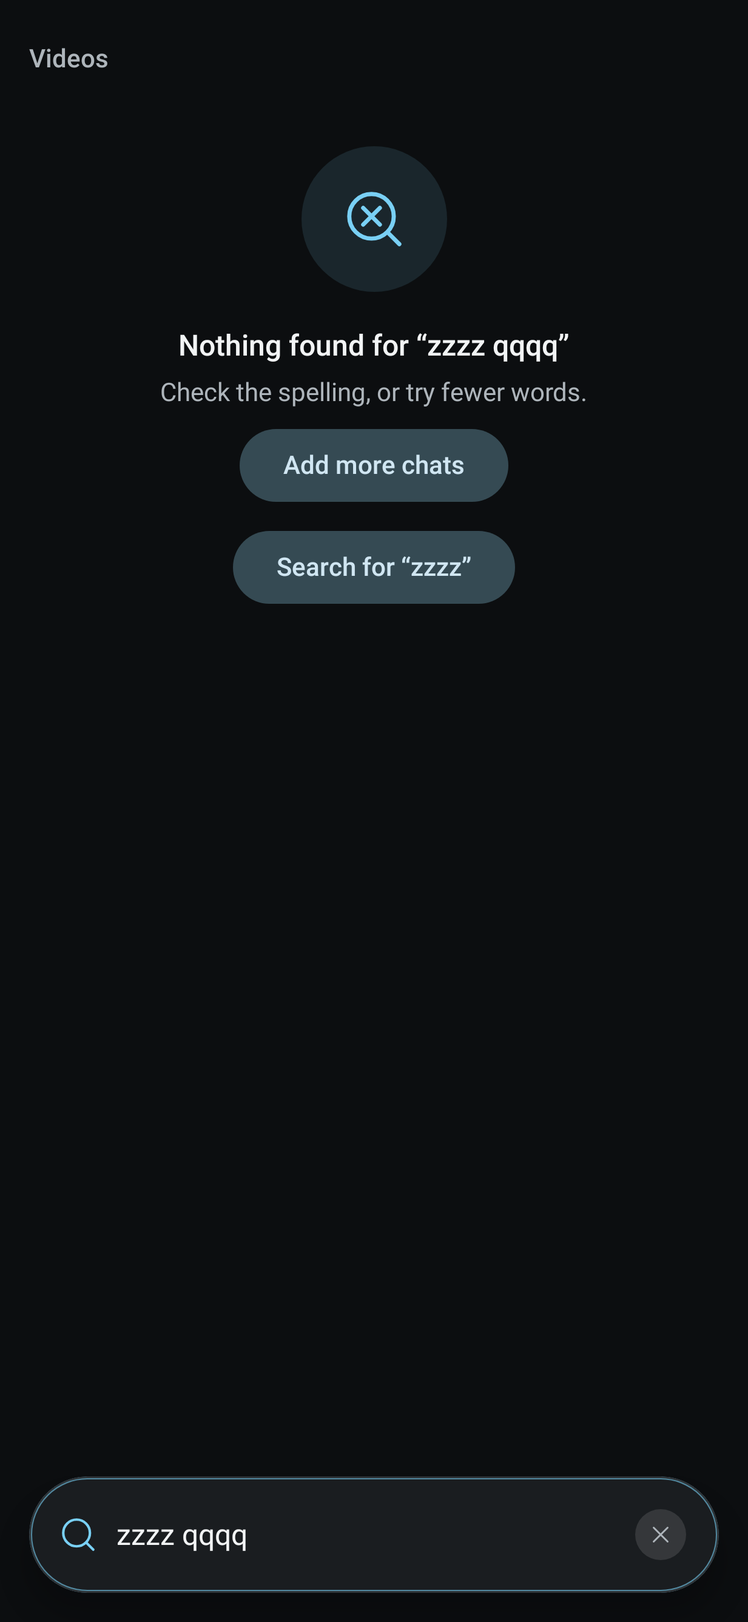
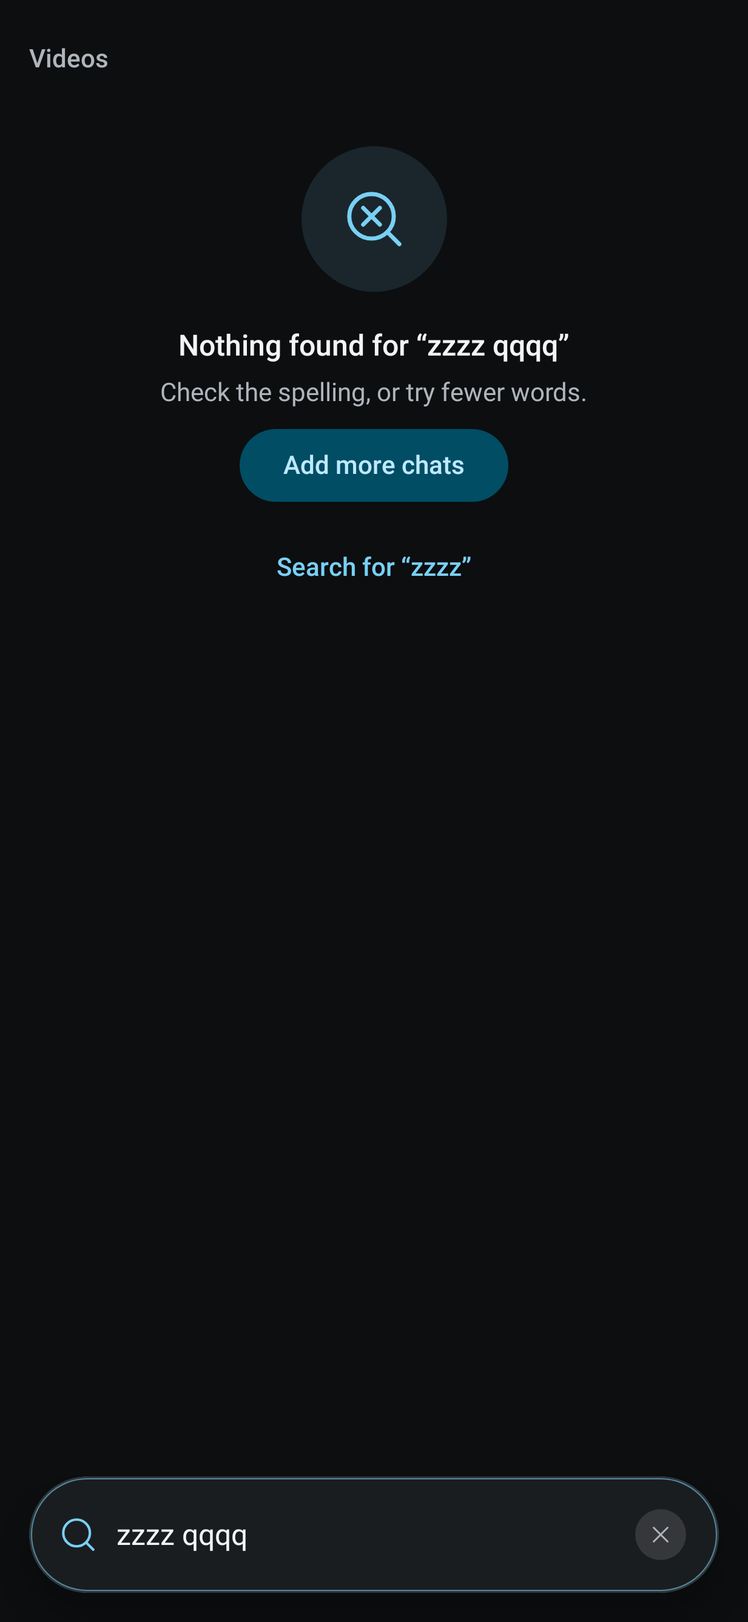
Plans and design shots: progress notes for the stutter, ANR and issue 31/33/34 work, refreshed review screenshots

Changed region(s): [[0.3082, 0.2484, 0.7088, 0.3726]]

diff --git a/private/UX-INTERACTION-PLAN.md b/private/UX-INTERACTION-PLAN.md
@@ -599,6 +599,13 @@ not built on purpose (gate rule 2); TV focus return after "Fix match" relies on 
   left for the user: (a) anime-skip.com client id is still the TODO in SkipSources: the privacy page and FAQ already name anime-skip.com, so register the id (and read their terms) before the release that ships this page, or drop it from both; (b) the FAQ answer "Can I stop on one device..." (ld.yes_once_you_turn_9ec7) still says "Resume on your other devices": changing it renames the ld key in all 21 catalogs, so it waits for langsync (only the user runs it); (c) 8 android.* and 10 ld.* new keys plus 2 reworded android keys (formats_body, storage_body, resume_body) need translating; (d) store text claims "Home works offline", "Downloads tab", sync, badges: re-check each against the build that ships; Microsoft Store limits are from memory; (e) Play and Amazon may want the Buy Me a Coffee / UPI line without a link (store-text.md); (f) no real device pass of the guides' menu names (Report stutter, Try the other decoder, Playback test, While streaming).
 
 ## Decisions made by Claude
+- W3 (Raju pass 2 leftovers, 2026-11-17):
+  - 1.1: the loader's one line "Your Telegram videos, in one place." (`state.first_open_promise`) sits in the loader's `below` room, so the spinner never moves; shown only while `SettingsStore.wasSignedIn()` is false (first open, or after a Sign out) and until the stalled help takes the room. This is a small, deliberate exception to the 2026-10-23 "just one loader, no words" rule: the words are the review's recommendation, below the spinner, and gone on every later launch.
+  - 2.4: the phone and desktop sign in footers' three dot icon is now the visible link "Can't connect? Get help" (`connect.get_help`, shared `SignInHelpLink`, 48 dp) that opens the same two lines (Proxy settings, Send logs). The footer stays hidden while the keyboard is up (the field's room); the connect banner and the slow Send code link already cover that case. TV keeps its two buttons.
+  - 4.7: the first of the empty search's ways (other chats, else Add chats) is the one primary button, the rest are text links (`EmptySearchWays`, phone) or plain pills (TV: tinted first, plain others). Wording kept ("Search my other chats" is accurate: the added chats were searched already; "all my chats" would not be); order kept so the remote walks the same way. Desktop palette keeps its list rows (every row there is a keyboard line, nothing to rank).
+  - 7.5: phone Downloads "Open folder" (empty page link and a link on the "On this phone" heading) only when downloads are in a folder the viewer picked and the grant is still held: it opens that folder with a VIEW intent on its document URI. The default folder is in the app's own storage, which no file manager may browse, so no link is drawn there (a button that cannot work is worse than none); Keep > Save to folder and gallery stay the way out. A failed open says so (`downloads.open_folder_failed`).
+  - 11.1: Player gestures is a heading of Playback (phone), Home's rows and the library are one page "Home and library" (phone, TV, desktop; deep links to Home land on it); the desktop's Mouse is a heading of Playback too (same job, same reason). The review's last line, "Text size as its own first row in Appearance", is not done: the row is "Interface size" and scales text, buttons and panels together, a "Text size" name would be wrong, and 11.2's search words ("bigger", "font", "text size") already find it. Web keeps its own Settings pages (docs/settings-audit.md).
+  - 11.3: desktop Playback ends with an "Advanced" heading holding "Force software decoding"; the Mouse rows sit before it. Old catalog keys (page_gestures, page_mouse, page_home, library, ...) stay in en.json because the locale catalogs still carry them (CatalogTest forbids orphans in a locale); new keys: connect.get_help, downloads.open_folder_failed, settings.group_playback_summary_desktop_mouse, settings.group_playback_summary_touch, settings.page_home_library(_summary), state.first_open_promise (other locales not synced, by the rule).
 - T1: one shared `rememberVisitQuery` (not a patch per screen) so any later search box gets rule 3 by calling it; the phone keeps the query while a page is open (`keep = page != null`), the desktop while a category is open. No design note: small fix.
 - T4: the TV gets the setup's two-answer switch (`TabSwitch`, extracted and shared) because Material segments cannot be reached with a D-pad; phone keeps Material segments, desktop keeps `Segments`. Words: setup choice titles now read Keep video / Save space; device card says "While streaming: Save space". The Free up space offer's button says Switch (was Turn on). No design note: a rename plus one row.
 - Three workers, not more: the files are split by surface and `MainActivity.kt` is shared, so only
@@ -883,3 +890,52 @@ Cast: no way to reach "Add a TV by its address" when discovery never finds it (a
 - Decisions: ci path filter is wider than iosMain (app/src/main/java, core/src, ui/src, res) because Android sources are compiled for iOS; repo guard uses owner/name, not the bare name; versions keyed by version AND build (an iOS-only build 2 is its own entry, old ones stay); non-dry runs only from an apple-v tag; PR branch is `altstore-source-<tag>-<run id>` (no force pushes); deep links are plain text in release notes because GitHub drops non-http links; xcodegen diff is a warning (project hand-edited); jsonschema only in CI/tests (skipped when missing).
 - Next (needs the user): set vars APPLE_MAC_CI/APPLE_SOURCE_PUSH if wanted, enable "Allow GitHub Actions to create pull requests", run a dry run from a branch on macos-26, add iPhone/iPad PNGs to iosApp/screenshots/{iphone,ipad} and run `altstore_source.py screenshots --repo dracu-lah/TMPlayer`, try the source in AltStore and SideStore.
 - Gotchas: a worktree needs `local.properties` copied (ignored). Heredoc python after `cd &&` is sometimes refused by the sandbox: write scripts to the scratchpad and run them.
+
+## RUN 3 (2026-11-17, hands-free, user picked: follow-up fixes, Raju pass 2 leftovers, web catch-up, worktree tidy)
+Tidy done by main session: merged and patch-equivalent worktrees/branches removed. Kept (unique commits, ask before delete):
+abba45b (web subtitles in this chat), ac52739 (web named lists), add88c6 (web search inside added chats), ab9c228 (TV search
+Try again, Resume, back focus), aee4cd3 (next-up loop, dimmed tracks, speed figure); 7 locked agent worktrees (pid 1387712 alive) and 3 dirty ones.
+### W1 Remote field trap + scrims (model: sonnet, depends: none)
+files: shared ui TV text fields (Proxy, new list name, country picker; NOT the Add a TV dialog file), `Modifier.dpadLeavesField` use, CastRemote, MetaExtrasUi, TouchNav, PlayerOverlay scrims (one shared scrimDismiss/swallowClicks in ui), tests.
+Done when: D-pad leaves each TV field with a performKeyInput test; scrims have no Tab stop and share one helper; MiniPlayerBar ring.
+### W2 Cast address line, cancel confirm, Clear all undo (model: sonnet, depends: none)
+files: SettingsScreen/desktop Settings (one line "Add a TV by its address" that opens the existing picker entry; do not edit that dialog file), Downloads cancel confirm (phone, TV, desktop), desktop recents Clear all Undo toast, en.json, tests.
+### W4 Web catch-up (model: sonnet, depends: none)
+files: `webapp/**` only. Sign in country chip + errors.phone_check/code_check/login.resend_none mapped in strings.config; then anime episode guide (tmdb/anime-guide.ts per T4 spec) and skip times. e2e chromium for what changed.
+**Progress / handoff W4 (worker, 2026-11-17, branch worktree-agent-a02512c26682c71cb on main cf49a51, 5 local commits, nothing pushed):**
+- `5cca127` sign in: country row shows the `+91` chip (`phone.dialChip`), a code with no other route shows `login.resend_none` as a muted line (`phone.canResend`). `errors.phone_check` / `errors.code_check` were already mapped in `errors.ts` (whole `errors` and `login` sections are in PAGE_STRINGS, so strings.config needed nothing). Tests: `src/signinWords.test.ts`, e2e `pages.spec` chip (chromium + phone-390).
+- `6c5b396` + `d148dd4` + `666dbc9` anime guide. Worker: `GET /tmdb/anime?id=<anilist>` (handler.ts `anime()`, readers `tmdb/anime-sources.ts`, rules `src/animeGuide.ts` = AnimeEpisodes port: merge, absoluteOf, locate, flat, overlay, placeholder, wire read). Sources in the apps' order (TMDB group, TMDB seasons in 2 appended calls, Kitsu by MAL id, Jikan, AniList streaming); wrong match dropped by `plausible`. A request makes at most 36 calls / 15 s (Pages' 50 subrequest cap); each source's progress is kept at the edge (`/tmdb/anime-part`), the answer says `complete:false` and is not kept until whole, then 1 day. Page: `followAnimeGuide` (posters.ts) asks again up to 6 times, 6 s apart; Detail overlays seasonList/next (one season counted straight through, as core) and the episode's own name and words. Tests: `animeRules` 16, `anime-sources` 7 (garbage), `animeRoute` 15 (order, call counts, budget resume, throttle, wrong match, cache), e2e `detail.spec` anime on chromium, phone-390, desktop-1280.
+- `3c56787` skip times: `GET /tmdb/skip?id=&e=&len=` (AniSkip by MAL id: AniList's idMal else the id map arm.haglund.dev; 404 = empty and kept a day; throttled/down = 503, not kept), `tmdb/skiptimes.ts`; player `src/player/skipOnline.ts` = core SkipMerge for chapters + online (chapters win; overlap or same group from the other source dropped; fit to length). Chrome asks only for a show whose poster answer is `source:"anilist"`, gated by the same "posters" switch. Tests: skiptimes 8, skipOnline 6, e2e extras (recap pill, none for a TMDB title).
+- Decisions: (a) response is raw `entries` + `layout` (not the spec's `seasons[]`) so the page runs the same `absoluteOf`; (b) guide rules live in `src/animeGuide.ts`, not `tmdb/`: the dev/e2e server answers every `/tmdb/*` URL as the worker, so the page cannot import files from there (`src/plain.ts` shared the same way); (c) a picture counts only if it is a TMDB still (`/abc.jpg`): the worker serves no Kitsu/AniList host, so those pictures are never taken (differs from core's IMAGE_HOSTS); (d) no `hint` param (the apps pass the file's name as a TMDB name), the AniList names are tried; (e) skip: the file's own episode number is sent as core does, not the absolute one; (f) anime-skip.com NOT ported (needs a client id the user lacks). LOG: add later with the client id as a Pages secret; (g) overview capped 1500 on the wire; (h) no core-written parity fixtures (task was webapp-only): the rule tests copy the cases of core's AnimeEpisodesTest/SkipPolicyTest by hand; a `WebAnimeParityTest` like WebSyncParityTest would close that.
+- Left: the browser's Cache API keeps nothing of the guide (the edge keeps it); TheIntroDB/IntroDB.app skip times for TMDB titles still not on web; WebKit projects not run.
+- Checks: `tsc --noEmit`, test:tmdb 113, test:player 144, test:stream 31, test:ui 57, test:sync 39, test:tg 4, src/*.test 12, src/screens 36 all green; `vite build` (dummy TG ids) ok; e2e pages, posters, detail, extras, app, a11y on chromium + phone-390 + desktop-1280: 172 passed, 4 skipped, 0 failed (own server on E2E_PORT 8441).
+### W3 Raju pass 2 leftovers 1.1, 2.4, 4.7, 7.5, 11.1, 11.3 (model: sonnet, depends: W2)
+files: onboarding/sign in screens, detail actions, SettingsMap regrouping; notes in private/ux-review/raju-pass-2.md. Design calls: take the note's recommendation, log it.
+
+### Worker handoff: W1 remote field trap + scrims (branch worktree-agent-a3045903915a804a9, commits bfcf775, 80b2532, local, not pushed)
+- Done: `dpadLeavesField` moved to ui (`ui/.../components/FieldDpad.kt`) with `dpadLeavesFieldOnTv()` (TV only: phone/desktop arrows stay with the cursor); on the proxy link box (`ProxyLinkField`, extracted), the by hand proxy fields (`ManualProxy`), the new list name (`ListNameField`, extracted) and the country search. Test: `FieldDpadTvTest` (Robolectric TV, performKeyInput + assertIsFocused; 4 fail without the modifier, phone keeps the cursor). `scrimDismiss` and `swallowClicks` moved from desktop `OverlayFocus.kt` to `ui/.../components/ScrimDismiss.kt`; used by MetaExtrasUi (enlarged photo dim), TouchNav (scrim + card), ChoicePopover, desktop PlayerOverlay (card and the loader dim). MiniPlayerBar title and buttons got `focusRing`. Test: desktop `ScrimAndMiniBarTest`.
+- CastRemote was already fixed in R8 (pointerInput, no clickable), nothing to change. Add a TV dialog file untouched.
+- Checks: `:app:compileDebugKotlin :desktop:compileKotlin`, FieldDpadTvTest, ListsTvFocusTest, auth.* app tests, desktop ScrimAndMiniBarTest + ControlReviewR1/R4, core CatalogTest all green. Not run: iOS klib compile, full test suite.
+- Left: AddChatsScreen search field (ui shared) not checked for the same trap; MiniPlayerBar ring is untested for pixels (focus walk only).
+
+### Worker handoff: W2 cast address line, cancel confirm, Clear all undo (branch worktree-agent-ab268f9a37fce5a31, commits 146bac5, 25f144b, fa262a4, 02e413d, local, not pushed)
+- (1) `146bac5` + `25f144b`: Settings Playback line "Add a TV by its address" (phone `ActionRow`, desktop `Action`; a television has none, it cannot cast). Opens the existing `AddTvDialog` (file untouched) through `rememberAddTvEntry` (app/cast/AddTvEntry.kt: asks the Android 17 local network permission first, refusal shown, no Cast support says "needs Wi-Fi", a second press while open or asking does nothing). New SettingsMap row `add_tv` (PD), key `settings.add_tv_detail`. Tests: AddTvRowTest (phone line opens dialog, TV has none), SettingsMapScreenTest + SettingsMapDesktopTest (map held), desktop click test.
+- (2) `fa262a4`: `CancelDownloadConfirm` (core) = only a Running or Moving download asks; `rememberStopDownload` (app, TvConfirm) and desktop twin (ConfirmDialog): "Stop this download?", focus starts on Keep downloading, prompt closes itself if the download leaves the queue meanwhile, Stop reads the row as it is then, second press asks once. Wired: phone/TV detail sheet and hold menu (menu waits for the answer), TV Downloads page; desktop detail pane, tile menu, Downloads row. Phone Downloads page keeps its 5 s Undo (7.2), no dialog on top. Keys `downloads.cancel_confirm_*`. Tests: core CancelDownloadConfirmTest, app StopDownloadConfirmTest (remote: Keep focus, Keep returns focus to Cancel, Stop, waiting goes at once, twice, finished meanwhile, stage changed, phone dialog), desktop StopDownloadConfirmTest.
+- (3) `02e413d`: desktop chat search recents Clear shows "Recent searches cleared" + Undo (`clearRecentWithUndo`, reads the list when it runs so a second press is silent); `RecentSearches.restore` and `SettingsStore.restoreRecentSearches` now keep searches made since (also fixes the phone's Undo overwriting them). Tests: core RecentSearchesTest, desktop RecentUndoTest (3).
+- Checks: `:app:compileDebugKotlin :desktop:compileKotlin`, core CatalogTest/SettingsMapTest/RecentSearchesTest/CancelDownloadConfirmTest/GarbageInputTest, the app and desktop tests above plus Settings*, DetailTwoColumn, DetailSheetRender, Downloads* desktop tests. DownloadsNavTest "Ctrl+Shift+J is not Downloads" failed once in 3 runs alongside the new tests (green alone and on rerun): flaky key state, not touched here.
+- Decisions: confirm only for Running/Moving (waiting rows hold nothing); phone Downloads page keeps Undo instead of a dialog; the line is on Playback beside the other casting-adjacent controls, no `SettingsNeed` (phone always has DLNA).
+- Not done: device check on a real TV that discovery misses; desktop focus-after-Keep on the Cancel button is not asserted (only Keep starts focused); the mid-commit en.json order was fixed by `25f144b`.
+
+### Worker handoff: W3 Raju pass 2 leftovers 1.1, 2.4, 4.7, 7.5, 11.1, 11.3 (branch worktree-agent-abd91fdf10a0b88b6, commits ca40742, d08ce91, 69b00af, 5407e10, 61a918e, 34952bd, local, not pushed)
+- Done: 11.1/11.3 `ca40742` (SettingsGroup loses Gestures, Mouse, Home; Library is "Home and library"; phone/TV page lists, desktop categories, deep links and SettingsLink follow; desktop Playback = rows, Mouse heading, Advanced heading with the decoder). 1.1 `d08ce91` (`FirstOpenPromise`, ui/connect). 2.4 `69b00af` (`SignInHelpLink`, phone and desktop footers). 4.7 `5407e10` (`EmptySearchWays` phone, TV pills tinted/plain). 7.5 `61a918e` (`OpenDownloadsFolder`, `BigEmpty` link slot, heading link). Tests and frames `34952bd` (`RajuLeftoversTest.kt` phone 100/200% font, TV; desktop `RajuLeftoversDesktopTest`, `SettingsMapDesktopTest` order test, core `SettingsMapTest`; frames in design/raju-pass-2).
+- Checks green: `:app:compileDebugKotlin :desktop:compileKotlin`; core CatalogTest, SettingsMapTest, SettingsLinksSourceTest, GarbageInputTest; app RajuLeftovers*, ui.settings.* (SettingsMapScreenTest, large font, TV groups), PhoneSearchTest, TvSearch*, EmptyStateFocusTest, RajuFirstRun*, RajuSignIn*, BrandLoaderRenderTest, ConnectHelp*, DownloadsTabBarTest, LoginCountryAndResendTest; desktop RajuLeftoversDesktopTest, SettingsMapDesktopTest, ConnectHelpRenderTest, RajuSignInDesktopTest, SettingsLayoutShotsTest.
+- Not done / left: "Text size" first row (see Decisions); Open folder needs a real phone with a picked folder and a file manager (Robolectric only checks the intent); the TV remote walk of the retinted empty-search pills is covered by the unchanged TvSearchScopeTest order only; other locales lack the 7 new keys (no langsync, by rule); iOS klib compile not run; the desktop palette's empty rows unchanged.
+
+### Worker handoff: W5 iPhone and iPad pictures for the AltStore source (branch worktree-agent-a030b012031ae294b, commits 9b53f1f, e858ca0, 607e0c1, local, not pushed)
+- Done: 6 iPhone (1320x2868) and 6 iPad (2064x2752) PNGs, dark, `01-home` to `06-settings` (Home, chat grid, video page, player, Downloads, Settings) in `iosApp/screenshots/iphone|ipad/`; `altstore/source.json` lists them (`altstore_source.py screenshots --repo dracu-lah/TMPlayer`, still no versions).
+- How: not Robolectric. `scripts/ios-store-pictures.py` drives the Android promo build (`app/src/promo`, demo library) on the `tmplayer_promo` emulator (headless, `-gpu host`, port 5558) with `wm size` and `wm density` set to the iPhone or iPad size, bars hidden. Redo: `:app:assemblePromo -PpromoShots`, start the emulator, run the script with `--apk`. `--theme light` makes a light set.
+- Small app change: the `MediaDetailSheet` dialog calls `HideDialogBars()` under `ScreenshotBarsOverride.hidden` (flag never set in the app), so the video page has no clock.
+- Docs: `docs/IOS.md` ("Pictures for the source", "none exist" removed, unverified list says not seen on an iPhone or iPad), `docs/agents/screenshots.md` (iosApp/screenshots is a PNG place).
+- Checks: altstore_source.py check --project iosApp/project.yml OK, validate_schema OK, unittest 42 OK, dash grep clean.
+- Decisions: dark only in the source; Android fonts and Material chrome, so Mac simulator captures (`-promo`) should replace them. Home hero carousel picks a different film each run.
+- Needs a Mac: real simulator captures; AltStore and SideStore loading the pictures from the raw URLs once on main.

diff --git a/private/PLAN.md b/private/PLAN.md
@@ -382,6 +382,40 @@ goes into this table at its place by severity and is taken before any feature wo
   starting, hold for 2x, auto subtitles, filters, resume on any device, mini player, topic name search; PR4 is the
   default external player with its chooser). Take PR0 (evidence from the reporters) first,
   after any open crash row below.
+- [x] HX80 (reported 2026-11-17 from Sentry, issue 161177059, tmplayer-android, app 1.28.5, CRASH, fatal, fixed
+  2026-11-18, committed locally, not released) `SecurityException: Permission Denial: CLOSE_SYSTEM_DIALOGS broadcast
+  from com.tmplayer requires BROADCAST_CLOSE_SYSTEM_DIALOGS`, Hisilicon MB300 "SmartTV", Android 14. The stack is
+  all framework: the remote's Search key that nothing took runs `PhoneWindow.launchDefaultSearch`, whose close of the
+  system dialogs the device refuses, thrown on the main thread where we cannot catch it. Fix: `SearchKeyGuard`
+  (app) takes KEYCODE_SEARCH in `MainActivity` and `PlayerActivity` `onKeyDown`/`onKeyUp` after the screens had it
+  (TV Home search still handles it first), test `SearchKeyGuardTest`. Not done: a device with this firmware to
+  confirm; the Assist and Voice Assist keys take another framework path (`launchAssistAction`) and are untouched.
+- [ ] HX81 (reported 2026-11-16 from Sentry, issue 161627449, tmplayer-android, app 1.28.4, ANR, URGENT, noted only,
+  not researched yet) `ApplicationNotResponding: ANR`, culprit `androidx.compose.runtime.Updater` reconcile-impl,
+  onn. 4K Streaming Box (Android 14), mechanism AppExitInfo. The main thread was recomposing `Root` in
+  MainActivity.kt (line 3120 of that build) when the system gave up: an expensive or looping composition on a weak
+  TV box. The `home-rows` thread was idle and ExoPlayer was loading in the background. Check first: what Root reads
+  that changes often (a state read in a frame loop, an unstable parameter, a list rebuilt per recompose; see the
+  `compose-performance` skill and its stability report), and measure idle CPU on a 1 GB stick (AGENTS.md).
+- [ ] HX82 (reported 2026-11-18 from Sentry, issue 161970443, tmplayer-android, app 1.28.3, ANR, URGENT, noted only,
+  not researched yet) `ApplicationNotResponding: ANR`, culprit `androidx.compose.ui.text.platform.DefaultImpl` (an
+  obfuscated `V`), Chromecast with Google TV (HD), Android 14. The main thread was inside
+  `Fragment.performStart` while a FragmentManager transaction ran: the compose text layer was busy on the main
+  thread as a fragment started (the player's track picker or overlay fragments, or Home). An ExoPlayer
+  `SimpleDecoder` was alive. Same weak-TV family as HX70 and HX81: look for a first composition of a large text
+  heavy screen (fonts, `Text` with many spans) on the main thread, and a warm-up that can wait a frame.
+- [x] HX83 (Sentry 161355951, vivo 1904 Android 11, app 1.28.5, ANR, fixed 2026-11-18, cda7e8d, not released) main thread
+  in `MetaMatch.normalise` -> `stripCombiningMarks` -> `Normalizer` (first call loads ICU). ASCII fast path in
+  `PureKit.jvm.kt` and in `normalise` (also no double strip). Not done: warming `MediaItem.metaQuery` off the main
+  thread for Home and search (MediaGridScreen.kt ~645 only does it in the shelf builder).
+- [x] HX84 (Sentry 161258214 OOM, 161276404 DeadSystemException, 161227673 ClassFormatError, fixed 2026-11-18, 4092038,
+  not released) `heap_mb` and `heap_used` class tags on every crash, ANR and native report (privacy page updated);
+  `DeadSystemException` and the `sun.awt` ClassFormatError dropped in the gate.
+- [ ] HX85 (Sentry stutter triage 2026-11-18, workers running in worktrees, see Progress) why-this-decoder tags and a
+  denominator for `tmplayer.stutter`, low-end FFmpeg limits, onTrimMemory. Also: SIGABRT 161284630 (realme RMX3241,
+  libtdjsonjava.so, maybe an fd double close next to `FileChannelImpl.close`): upload TDLib debug symbols to Sentry and
+  check whether 1.28.5 still shows it, nothing done. ANR 158675266 (QueuedWork.waitToFinish on a Pixel 9) ignored
+  until it repeats on 1.28.5. GitHub #33 (fine volume), #34 (video rotation), #31 (seasons past 1): workers running.
 - [ ] HX69 (reported 2026-11-02, Android phone, vivo V2050 on Android 13, app 1.28.3, CRASH, URGENT, first in the
   table, not researched yet, no work yet) Crash when downloading videos and series, the reporter thinks for files
   of 500 MB and more ("fix the crashes when downloading files"). No stack trace or log yet. Ask the reporter (or

diff --git a/private/ux-review/raju-pass-2.md b/private/ux-review/raju-pass-2.md
@@ -54,13 +54,13 @@ No change needed: 2.7, 5.3, 9.5, 10.4. Not exercised on a device: 8.3.
 
 Open, small, each needs a call from you rather than a minimal fix:
 
-- **1.1** First open still shows only "Getting ready": the one line promise (`state.first_open_promise`) was never added. Polish.
-- **2.4** The phone sign in still hides Proxy settings and Send logs behind a three dot icon in the footer (MainActivity, not testable as a unit). The help link appears with the connect banner (tested), not before it.
-- **4.7** An empty search over the added chats still ends in two secondary buttons ("Search my other chats", "Add chats"), not one primary and one link. Polish.
+- **1.1** (done in W3, 2026-11-17) First open still shows only "Getting ready": the one line promise (`state.first_open_promise`) was never added. Polish.
+- **2.4** (done in W3, 2026-11-17) The phone sign in still hides Proxy settings and Send logs behind a three dot icon in the footer (MainActivity, not testable as a unit). The help link appears with the connect banner (tested), not before it.
+- **4.7** (done in W3, 2026-11-17) An empty search over the added chats still ends in two secondary buttons ("Search my other chats", "Add chats"), not one primary and one link. Polish.
 - **6.1** The "Getting the next part" toast on a single file video: not verified without a device.
-- **7.5** The phone's empty Downloads page does not offer "Open folder" (the desktop does). Needs a storage access intent.
-- **11.1** Settings still has Gestures, Library and Home as their own groups; the review wanted them merged into Playback and "Home and library".
-- **11.3** Desktop Playback page still leads with "Force software decoding"; it was meant to move under an Advanced block.
+- **7.5** (done in W3, 2026-11-17) The phone's empty Downloads page does not offer "Open folder" (the desktop does). Needs a storage access intent.
+- **11.1** (done in W3, 2026-11-17) Settings still has Gestures, Library and Home as their own groups; the review wanted them merged into Playback and "Home and library".
+- **11.3** (done in W3, 2026-11-17) Desktop Playback page still leads with "Force software decoding"; it was meant to move under an Advanced block.
 - **Webapp rows (R9's files):** 2.6 wording of the Premium sign in error against the button, 4.10 two bars at 390 wide, 10.3 quiet Sign out with a confirm. Not touched here.
 - **TV text fields elsewhere** have the same trap the sign in had unless they handle arrows themselves: Proxy page (two fields), the new list name (`ListsUi`), Add a TV address (`AddTvDialog`), the country picker search, MediaGrid search. `FieldDpad.kt` is in `app`; those files are in the shared `ui` module, so the modifier would first move there. Check each on the Mi TV remote before deciding.
 - On a device: steps 1 to 3 on a clean install (the real country guess, SMS consent), the remote on the real TV code page after Back closes the keyboard (the fix above), offline on the real TV, and the 200% font on the POCO. Render tests cannot show the on-screen keyboard.

diff --git a/private/SEO-PLAN.md b/private/SEO-PLAN.md
@@ -686,3 +686,22 @@ Keep what moved, revert what did not.
 - [Bing Webmaster Tools, IndexNow and the AI Performance report](https://geotoolbox.ai/blog/bing-webmaster-tools), [What 20,000 Copilot citations taught us](https://www.searchinfluence.com/blog/bing-ai-performance-report-copilot-citations/)
 - [GEO best practices: what is actually proven in 2026](https://crowdo.net/blog/?p=2755)
 - [Search Engine Journal on intrusive mobile pop-ups](https://www.searchenginejournal.com/google-devalue-pages-intrusive-pop-ups-mobile-search/171534/), [Guide to intrusive interstitials](https://seosly.com/blog/intrusive-interstitials/)
+
+## Search Console review, export 2026-11-17 (28 days, 2026-10-19 to 2026-11-15) vs 2026-11-11 (2026-10-13 to 2026-11-09)
+Files: `seo-data/tmplayer.org-Performance-on-Search-2026-11-17.zip` and `...-11-11.zip` (git-ignored).
+- Totals: clicks 5,743 (was 5,051, +14%), impressions 32,048 (27,397, +17%), CTR 17.9% (18.4%), average position 5.71 (5.67).
+  Mobile 84% of clicks. India 3,637 clicks (63%), then UAE 445, Saudi Arabia 148, Germany 106 (pos 6.5).
+- Brand ("tmplayer", "tm player", "tmp player"): 3,915 of the 4,470 query clicks, position 1.0 to 1.2. Non-brand 555 clicks.
+- Non-brand head, all steady: "telegram video player" 276 clicks (pos 2.1), "telegram player" 43 (4.4), "telegram media player" 19 (2.1),
+  "telegram player for pc" 13 (2.3). The TV set ("telegram tv", "telegram android tv", "telegram for tv", "telegram tv app", "tv telegram",
+  about 700 impressions together) sits at pos 6.5 to 7.5 with 3 to 4% CTR: the guides answer it, no new page.
+- Pages: `/web/` clicks 44 to 72 (the web app), `/guides/telegram-on-samsung-or-lg-tv/` 10 to 19, `/download/` 276 to 314, `/desktop/` 65 to 84.
+  `/features/` (2,044 impressions, 3 clicks, pos 1.6), `/android/`, `/install/`, `/android-tv/`: sitelink-style impressions under the brand result,
+  no click problem to fix.
+- New queries are all 1 to 7 impressions (AirPlay, "telegram en smart tv", Portuguese and Spanish TV how-tos): the cast guide, FAQ and
+  llms.txt already say "No AirPlay"; the localised guides already cover the TV questions.
+- "tmp app" (59 impressions, 0 clicks, pos 7.2), "tmp apk" (38, 7 clicks), "tmp download": the known short-name collision (see the
+  ambiguity notes above). No page of ours should chase another product's name.
+- Decision (Claude, 2026-11-17): no site change this round. Nothing in the export is a gap the site does not answer already, and padding
+  pages would break "look before adding". Re-check after the next 28 days; watch: `/web/` growth, Spanish, Italian and Portuguese guide
+  positions (6 to 9), "telegram videos" (pos 12.5).
